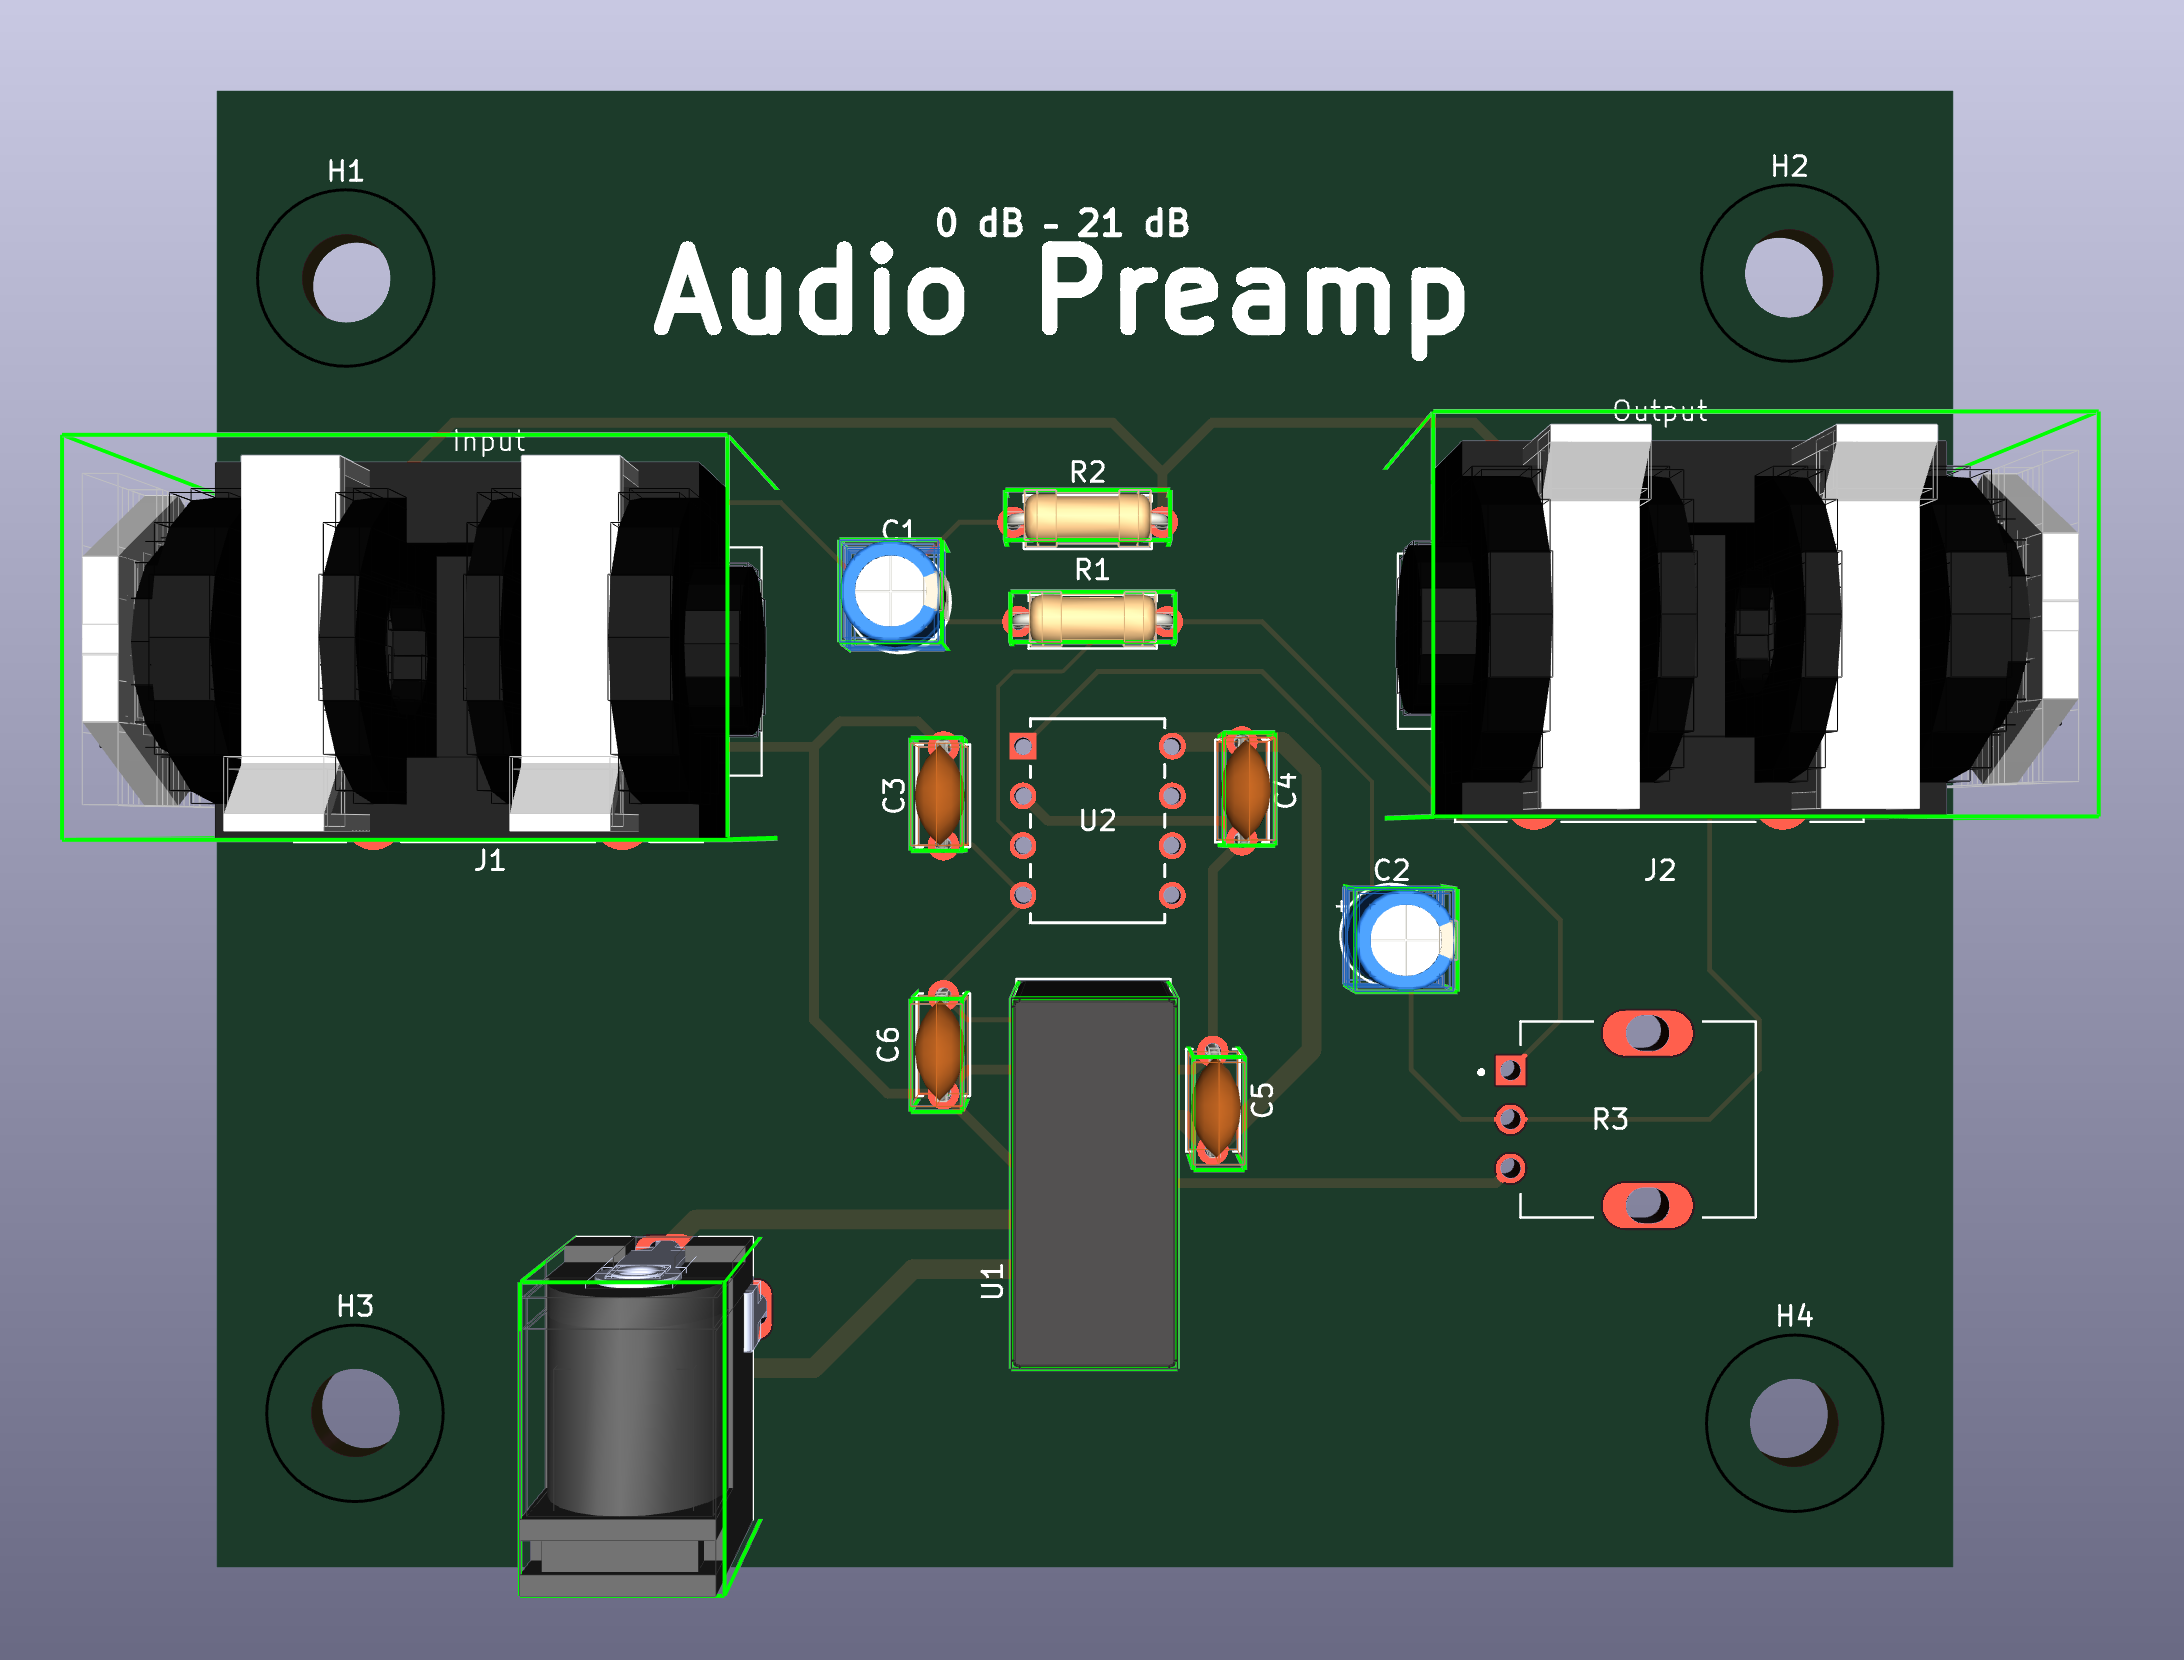
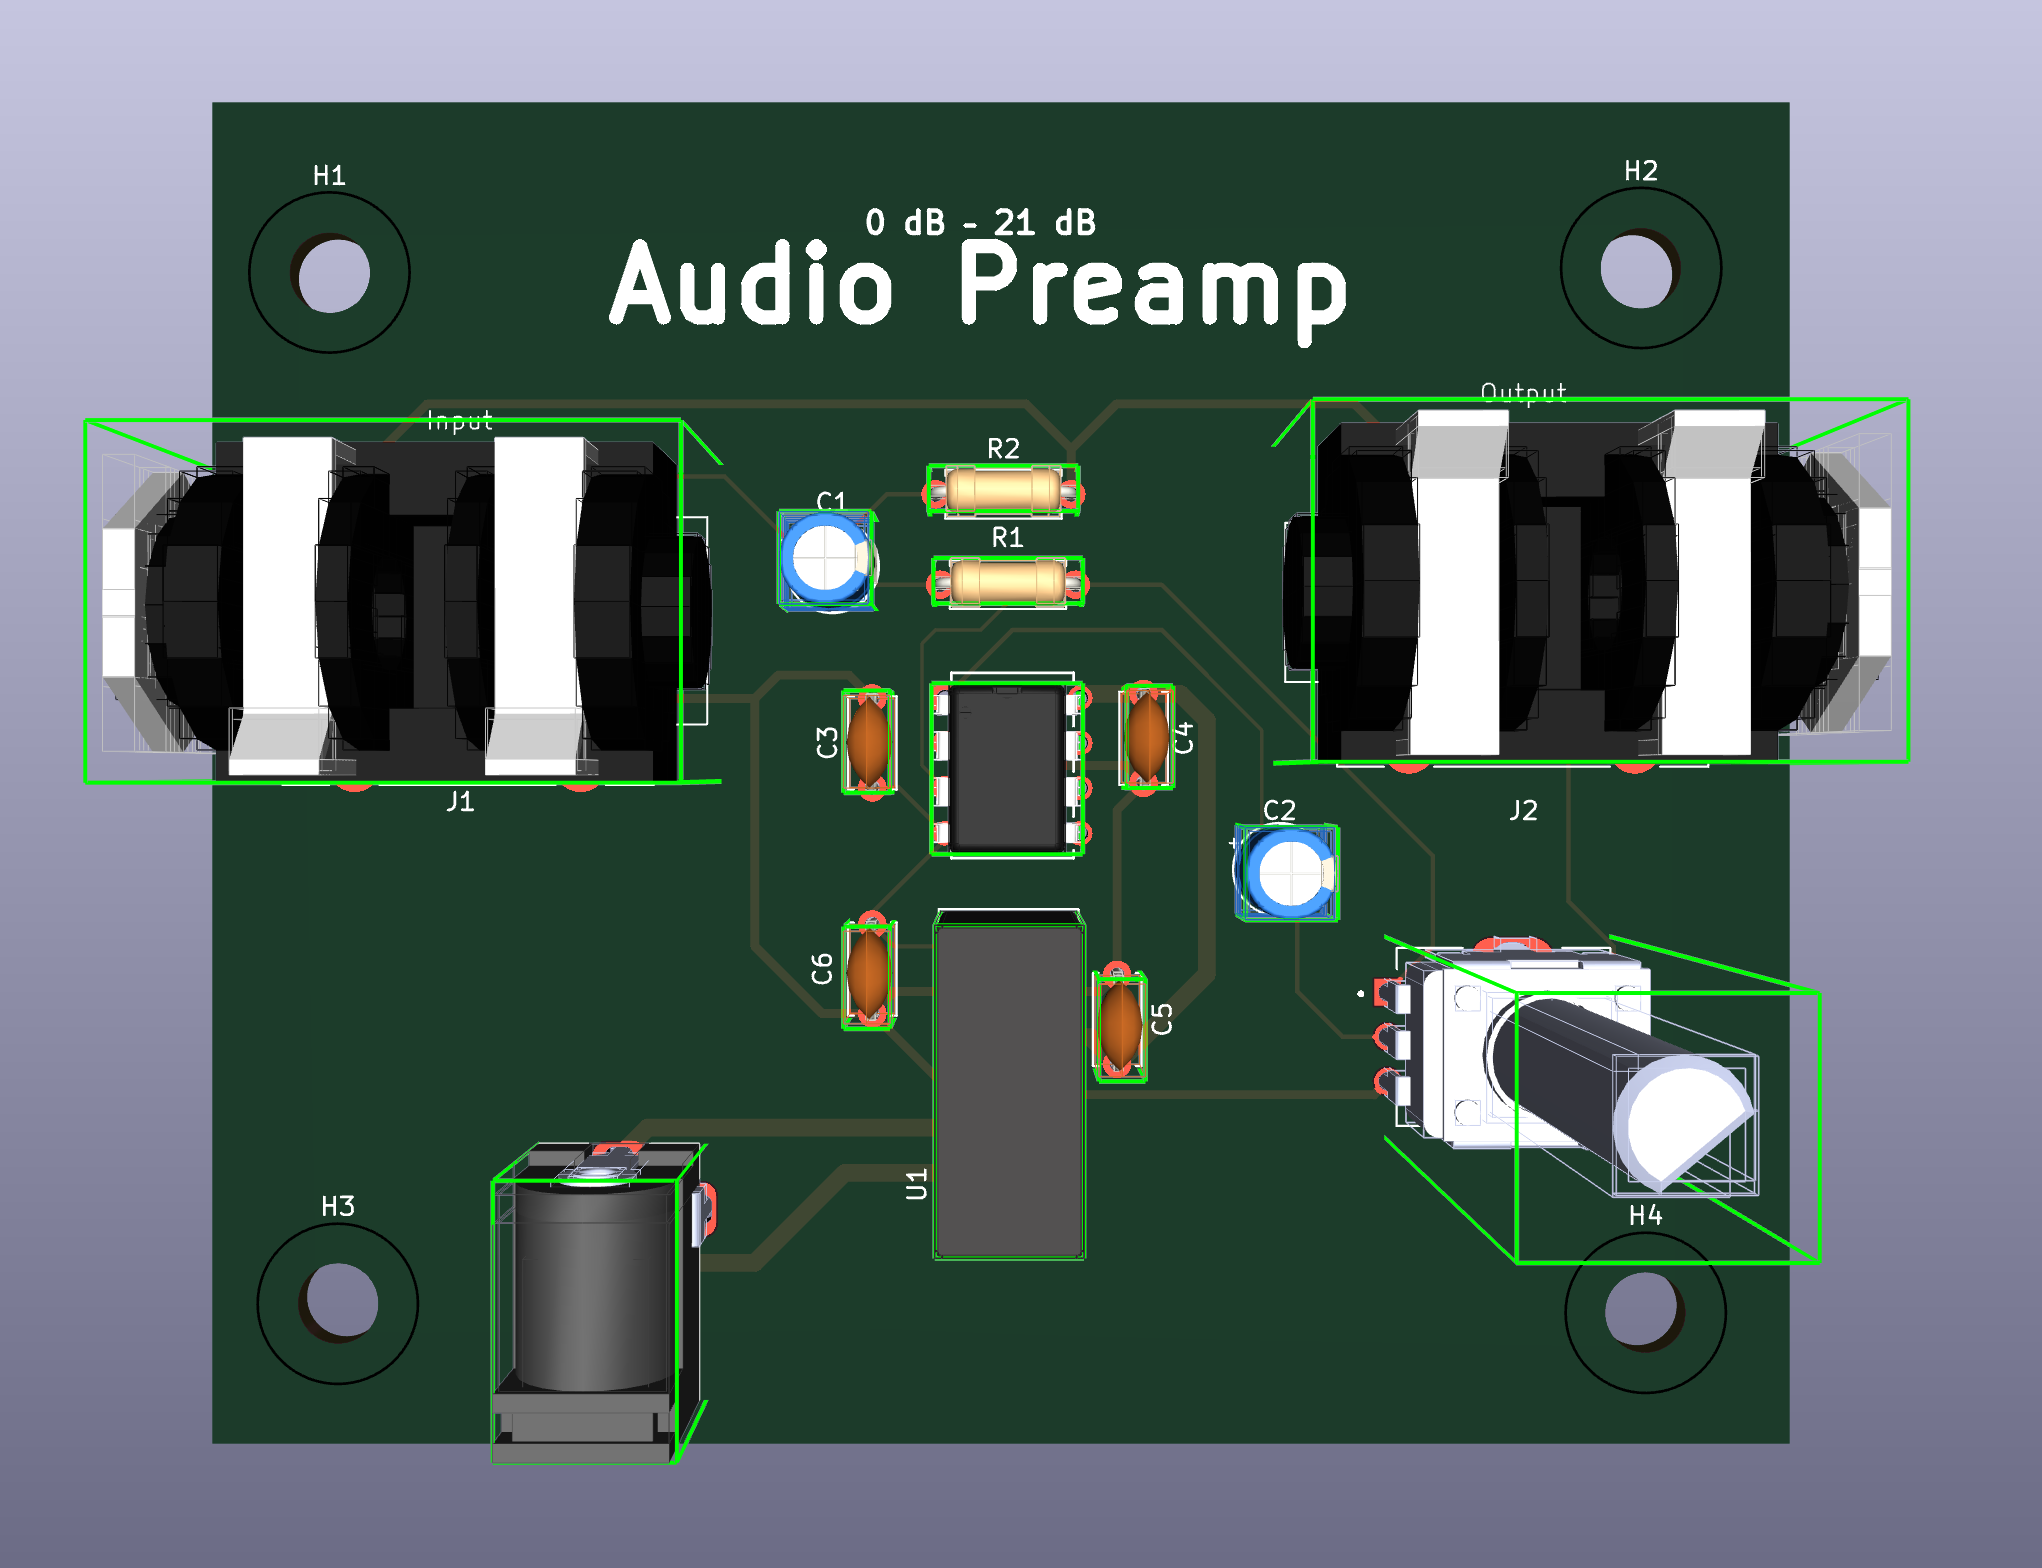
fix: 3d models missing and slew rate 10-90 percent command

Changed region(s): [[0.0309, 0.0312, 0.9564, 0.9688], [0.3085, 0.125, 0.6787, 0.2188]]

diff --git a/presentation.md b/presentation.md
@@ -1,0 +1,69 @@
+presentation.md
+
+# Simulation 1: Buffer Slew Rate
+.tran 0 40u 0 1n command - Transienten-Simulationsbefehl
+
+start bei 0 stopp bei 40u
+start speicherzeit 0
+max zeitschirtt: simulationsschritte höchsten 1n groß -> wir  brauchen eine feine, zeitliche Auflösung für die slew rate
+
+.lib TL082.301 command - um das Modell zu verwenden (muss im selben directory sein)
+Lädt eine Modellbibliothek (z.B. Makromodell des TL082-Opamps)
+
+PULSE(-5 5 0 1p 1p 10u 20u) Die Eingangsspannung (Quelle Vin)   großer Rechtecksprung von −5 V auf +5 V
+
+Messung: Deine .meas tran-Kommandos (wie in der vorherigen Nachricht erklärt) lesen:
+
+    Maximalwerte (vin_max, vout_max),
+    (V_\text{out}) an vielen Zeitpunkten,
+    und daraus berechnen sie (\Delta V/\Delta t) → Slew Rate
+
+Das Ergebnis im Error-Log zeigt ungefähr:
+
+	Rising slew rate ≈ (+13\ \text{V}/\mu s)
+	Falling slew rate ≈ (−13\ \text{V}/\mu s)
+
+was gut zu einem TL082-Modell mit typischer Slew Rate im Bereich von etwa 13 V/µs passt.
+
+
+Besser: 
+* Rising edge, 10–90 % Methode
+.meas tran t10_r WHEN V(vout) = -4 RISE=1
+.meas tran t90_r WHEN V(vout) =  4 RISE=1
+
+.meas tran v10_r FIND V(vout) AT t10_r
+.meas tran v90_r FIND V(vout) AT t90_r
+
+.meas tran sr_10_90_r PARAM (v90_r - v10_r) / (t90_r - t10_r)
+
+
+alter command
+.meas tran sr_peak   PARAM (vout_020u - vout_005u) / 0.15u   ; Steigung der steigenden Flanke im frühen Bereich
+.meas tran sr_late   PARAM (vout_040u - vout_030u) / 0.10u   ; Steigung der steigenden Flanke etwas später
+.meas tran sr_fall   PARAM (vout_10080u - vout_10050u) / 0.15u ; Steigung der fallenden Flanke
+.meas tran sf_peak   PARAM (vout_10070u - vout_10050u) / 0.10u ; Steigung der fallenden Flanke im frühen/steilsten Bereich
+
+
+bzw:
+.meas tran sr_peak   PARAM (vout_020u - vout_005u) / 0.15u   ; Steigung der steigenden Flanke im frühen Bereich
+.meas tran sr_late   PARAM (vout_040u - vout_030u) / 0.10u   ; Steigung der steigenden Flanke etwas später
+.meas tran sr_fall   PARAM (vout_10080u - vout_10050u) / 0.15u ; Steigung der fallenden Flanke
+.meas tran sf_peak   PARAM (vout_10070u - vout_10050u) / 0.10u ; Steigung der fallenden Flanke im frühen/steilsten Bereich
+
+
+warum einmal buffer und einmal komparator?
+
+    Buffer: Ausgang läuft dem Eingang nach, mit Verzögerung und begrenzter Steigung.
+    Komparator: Ausgang springt sofort nach oben oder unten, sobald die Eingangsspannung die Referenz über- oder unterschreitet
+
+.tran = Transientenanalyse 
+
+Bei einer Transientenanalyse untersucht LTspice das Verhalten der Schaltung über die Zeit, also z. B. beim Einschalten, bei einem Sprungsignal oder bei einer Pulsquelle.4123 Man sieht damit Übergangsvorgänge, Einschwingvorgänge, Flanken, Verzögerungen, Überschwingen und Slew Rate.423
+
+
+.op = DC-Arbeitspunktanalyse DC
+
+Bei einer DC-Analyse bzw. Arbeitspunktanalyse berechnet LTspice den stationären Zustand der Schaltung, also die Spannungen an den Knoten und die Ströme, ohne Zeitverlauf.13 Man kann sich das als den Zustand vorstellen, wenn sich alles „eingependelt“ hat und keine zeitabhängige Veränderung mehr betrachtet wird.13
+
+
+Wenn du z. B. die Slew Rate eines OPV messen willst, brauchst du .tran, weil du die Bewegung des Ausgangssignals über die Zeit sehen willst.23 Wenn du dagegen den Input Offset bestimmen willst, ist .op sinnvoll, weil du nur den statischen Ausgangswert bei (V_{in}=0) brauchst.13

diff --git a/abgabe.md b/abgabe.md
@@ -1,8 +1,14 @@
-# TL082CP Audio-Vorverstärker
+# TL082CP Bauteil-Datenbank
+LT Spice Simulationen und KiCAD Projekt: Audio-Vorverstärker
+
 ## Abschlussarbeit LV CAE SS2026 - AE27
 
-**Bauteil:** TL082CP (Dual JFET Operational Amplifier)  
+---
+
+**Bauteil:** TL082CP (Dual JFET Operational Amplifier) 
+
 **Bauform:** PDIP-8 (Through-Hole)  
+
 **Anwendung:** Nicht-invertierender Audio-Vorverstärker ("Clean" Preamp) mit einstellbarer Verstärkung
 
 ---
@@ -48,11 +54,12 @@ Der TL082CP eignet sich aufgrund seiner Eigenschaften ideal für Audio-Anwendung
 **Hinweis zu simulierten vs. Datenblatt-Eigenschaften:**
 
 **Direkt nachgewiesen durch Simulationen:**
+
 - Slew Rate (Transient-Analyse)
 - Input Offset Voltage (DC-Analyse)
-- Frequenzgang/Verstärkung (AC-Analyse)
 
 **Aus Datenblatt (nicht explizit simuliert):**
+
 - Hohe Eingangsimpedanz (JFET-Eingangsstufe) - typisch >10¹² Ω
 - Geringes Rauschen - typisch 25 nV/√Hz
 - Hoher CMRR - typisch 86 dB
@@ -76,8 +83,9 @@ Die Verstärkung (V) der Schaltung wird mit folgender Formel berechnet:
 $$V = 1 + \frac{R_2}{R_1}$$
 
 Dabei ist:
-- **R₂** der Gegenkopplungswiderstand zwischen Ausgang und invertierendem Eingang (Potentiometer VR1 = 0-50 kΩ)
-- **R₁** der Widerstand vom invertierenden Eingang nach Masse (R1 = 4.7 kΩ)
+
+- **$R_2$** der Gegenkopplungswiderstand zwischen Ausgang und invertierendem Eingang (Potentiometer VR1 = 0-50 kΩ)
+- **$R_1$** der Widerstand vom invertierenden Eingang nach Masse (R1 = 4.7 kΩ)
 
 ### 2.2 Eingangsimpedanz und Bias-Widerstand
 
@@ -244,15 +252,19 @@ Trotz der Abweichung bildet das Modell das grundlegende dynamische Verhalten kor
 **Messung:** DC-Arbeitspunkt mit `.op`-Analyse
 
 **Ergebnis:**  
+
 V_offset ≈ **11 µV** (rein numerischer Artefakt)
 
 **Datenblatt-Vergleich:**
+
 - Simuliert: 11 µV
 - Datenblatt TL082CP: 3-15 mV (typisch-max)
 - Abweichung: Faktor 300-1000
 
 **Modell-Limitierung:**  
+
 Das TI-Makromodell `TL082.301` enthält **keine Eingangs-Offsetspannung** modelliert:
+
 - Keine `VOS`-Spannungsquelle am Eingang
 - Keine Mismatch-Parameter für JFETs (J1, J2)
 - Keine Bias-Strom-Streuung
@@ -262,16 +274,20 @@ Die gemessenen 11 µV sind **Floating-Point-Rundungsfehler** des SPICE-Solvers, 
 
 **Lösung für realistische Simulation:**  
 Externe Vos-Quelle manuell hinzufügen (bereits in `real-input-0V-measure-dc-point-test-input-offset-voltage-tl802-op-amp.asc` implementiert):
+
 - Vos = 5 mV → Vout = -5.005 V (linear)
 - Vos = 13.3 mV → Vout = -13.35 V (Sättigung)
 
 **Empfehlung:**  
+
 Für Offset-Analysen immer:
+
 1. Externe Vos-Quelle verwenden, ODER
 2. Vollständiges Hersteller-Modell (TI PSpice) mit `.param Vos`, ODER
 3. Monte-Carlo-Analyse mit Mismatch-Parametern
 
 **Simulationsdateien:**
+
 - `ltspice/ltspice-simulation-2-input-offset-voltage/non-inverting-test-input-offset-voltage-tl802-op-amp.asc`
 - `ltspice/ltspice-simulation-2-input-offset-voltage/simulation-2-input-offset-voltage.md`
 
@@ -285,17 +301,20 @@ Für Offset-Analysen immer:
 | Bandbreite | ✓ korrekt | 4 MHz | ✓ Gut |
 
 **Nicht direkt simuliert (aus Datenblatt):**
+
 - Eingangsimpedanz: >10¹² Ω (JFET-Eingang)
 - Rauschen: 25 nV/√Hz
 - CMRR: 86 dB
 
 **Fazit:**  
 Das TI-Makromodell `TL082.301` ist geeignet für:
+
 - Funktionsnachweis (Verstärkung, Filter, etc.)
 - Frequenzgang-Analyse (AC-Analyse)
 - Dynamisches Verhalten (Slew Rate, Transient)
 
 und nicht für:
+
 - Offset-Analyse (nur mit externer Vos-Quelle)
 - Rausch-Analyse (kein Rauschmodell)
 - Eingangsimpedanz-Messung (nicht simuliert)
@@ -412,10 +431,12 @@ Das Projekt "TL082CP Audio-Vorverstärker" wurde erfolgreich abgeschlossen:
 ### 7.2 Nachgewiesene Funktionen
 
 **Durch Simulationen direkt nachgewiesen:**
+
 - Hohe Slew Rate (13.4 V/µs simuliert, 20 V/µs Datenblatt)
 - Geringer Input Offset (11 µV simuliert, 3-15 mV Datenblatt)
 
-** Aus Datenblatt (nicht explizit simuliert):**
+**Aus Datenblatt (nicht explizit simuliert):**
+
 - Hohe Eingangsimpedanz (JFET-Eingang) - typisch >10¹² Ω
 - Geringes Rauschen - typisch 25 nV/√Hz
 - Hoher CMRR - typisch 86 dB
@@ -435,9 +456,3 @@ Das TI-Makromodell `TL082.301` (1989) ist für Funktionsnachweise und Frequenzga
 - Traco Power TMR 1-1222: https://www.tracopower.com/int/model/tmr-1-1222
 - PJ-102A Audio-Jack: https://www.snapeda.com/parts/PJ-102A/Same%20Sky/view-part/
 - Same Sky PT01-D130D-B503: https://www.snapeda.com/parts/PT01-D130D-B503/Same%20Sky/view-part/
-
----
-
-**Matrikelnummer:** [einzutragen]  
-**Name:** [einzutragen]  
-**Datum:** 04.07.2026

diff --git a/readme.md b/readme.md
@@ -103,23 +103,23 @@ TL082CP/
 
 ## MD → PDF konvertieren
 
-Die Dokumentation (`kicad/documentation.md`) lässt sich mit **Pandoc + XeLaTeX** in ein druckbares PDF umwandeln.
+Die Dokumentation (`abgabe.md`) lässt sich mit **Pandoc + XeLaTeX** in ein druckbares PDF umwandeln.
 
 ### Voraussetzungen
 
 - **Pandoc** installieren: `brew install pandoc` (macOS) bzw. `apt install pandoc` (Linux) bzw. https://pandoc.org
 - **XeLaTeX** (TeX Live oder MiKTeX) installieren
 
-### Beispiel: `documentation.md` → PDF
+### Beispiel: `abgabe.md` → PDF
 
 ```bash
-pandoc kicad/documentation.md \
+pandoc abgabe.md \
   --pdf-engine=xelatex \
   -V lang=de \
   -V geometry:margin=2.5cm \
   -V fontsize=11pt \
   -V colorlinks=true \
-  -o documentation.pdf
+  -o abgabe.pdf
 ```
 
 ### Hinweise